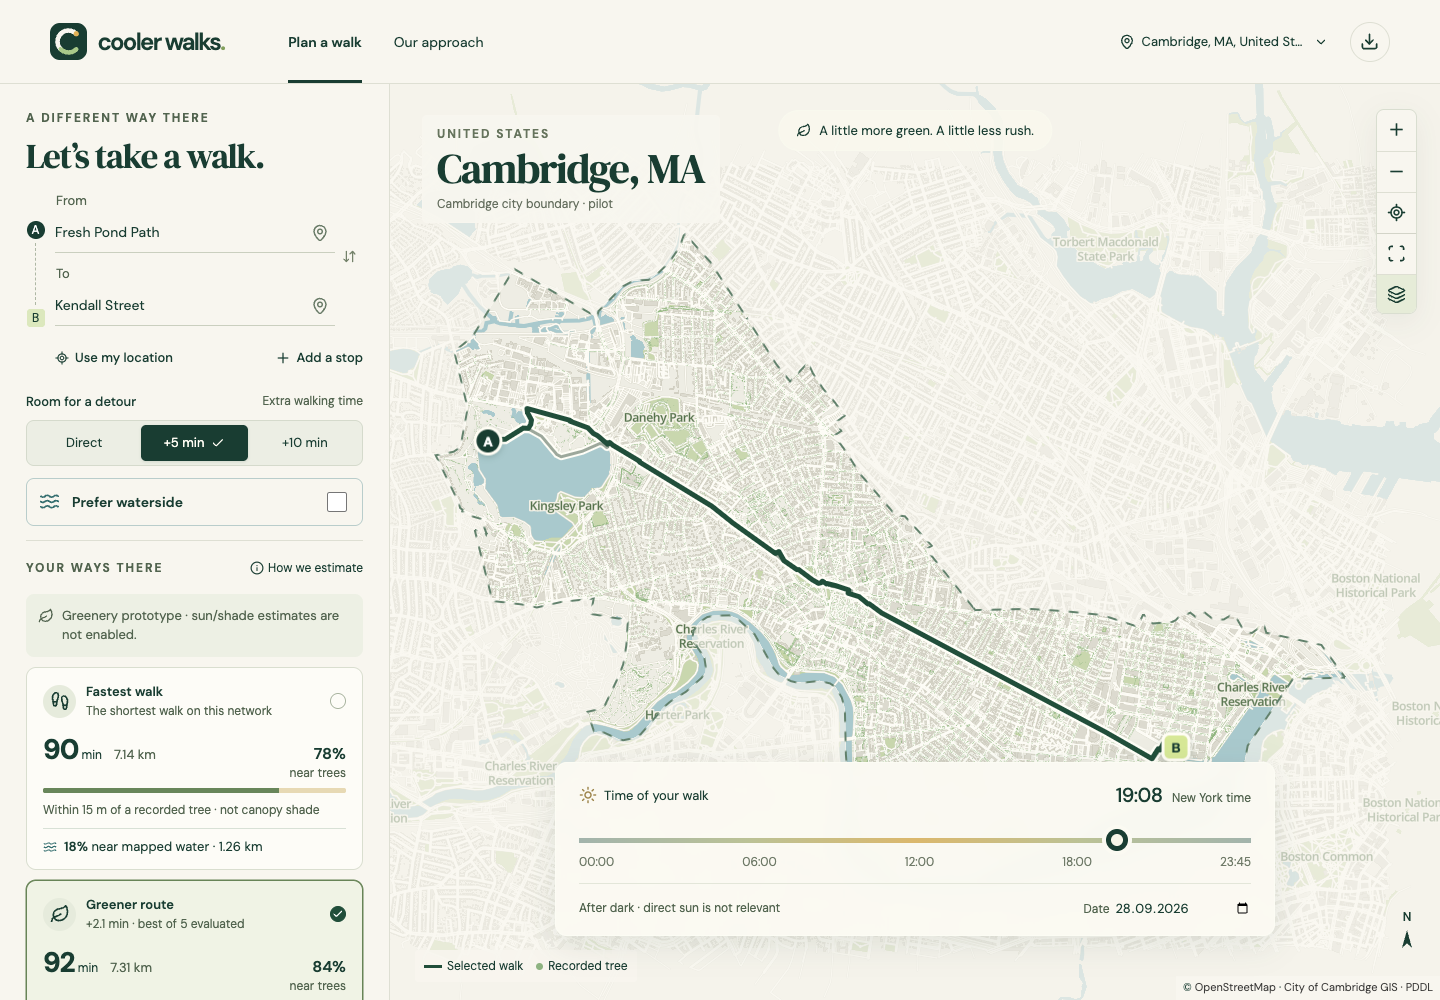
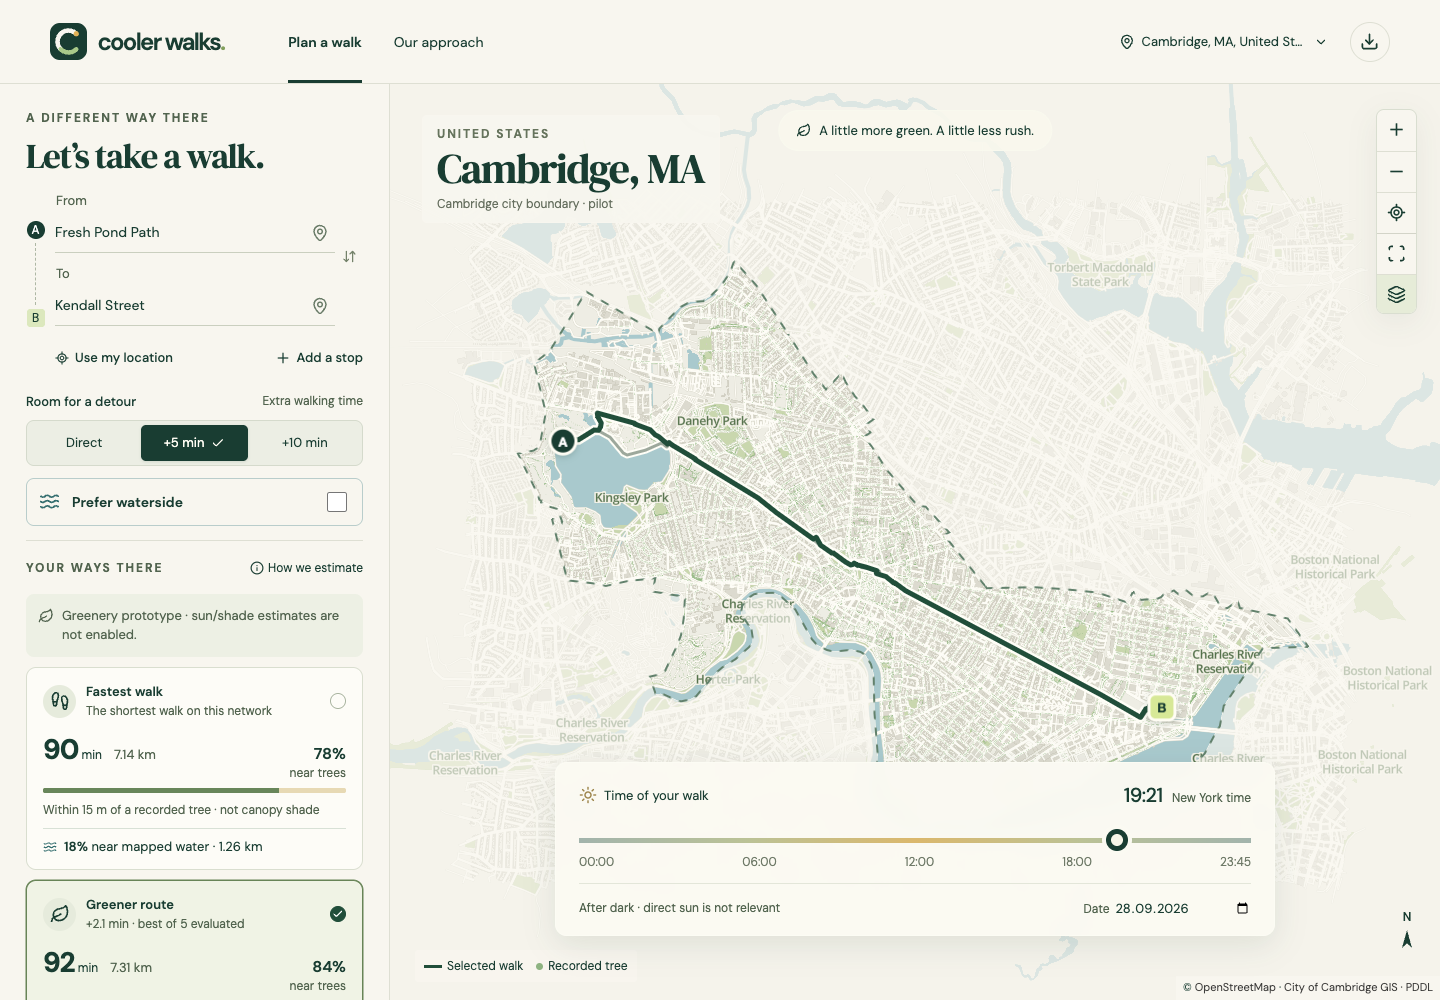
Verify offline Android flows and complete native build setup

diff --git a/src/components/Map.tsx b/src/components/Map.tsx
@@ -493,7 +493,12 @@ export function WalkingMap({
               onClick={() => {
                 if (!showCoverage) onCoverage();
                 map.current?.fitBounds(city.bounds, {
-                  padding: { top: 130, bottom: 100, left: 40, right: 85 },
+                  padding: {
+                    top: 130,
+                    bottom: matchMedia('(max-width:620px)').matches ? 100 : 280,
+                    left: 40,
+                    right: 85,
+                  },
                   duration: matchMedia('(prefers-reduced-motion: reduce)').matches ? 0 : 650,
                 });
               }}

diff --git a/docs/platform.md b/docs/platform.md
@@ -47,6 +47,8 @@ The local preview is the delivered runtime. No public production domain is deplo
 
 The enlarged graphs pass six new real journeys with endpoints outside the old coverage, plus full graph-edge checks against rectangles or Cambridge’s municipal polygon. Results are in `coverage-validation.json`; the separate source/model manifests retain all provenance. Unknown Munich structures have dedicated model tests. Candidate searches use a conservative distance lower bound to keep short trips responsive in larger graphs.
 
-The native project uses an Android debug build job on GitHub Actions in addition to existing web/model checks. It does not publish an app or use release-signing credentials. Exact local native verification is recorded in `native-validation.json` when completed.
+The native project uses an Android debug build job on GitHub Actions in addition to existing web/model checks. It explicitly sets up the Android SDK and does not publish an app or use release-signing credentials.
+
+**Android actually verified:** the debug APK compiled, installed and launched in an isolated Pixel 8 AVD running Android 16 (API 36.1, ARM64), with Android System WebView 134.0.6998.135. Eleven integration checks passed: native launch and local worker routes, no service worker, information/editing Back handling, native location denial with preserved inputs, maps/routes in all four cities with Wi-Fi/mobile data disabled, winter sun preference offline, root Back/minimize/resume, no horizontal overflow, and a cold offline relaunch remembering the city. No page errors were recorded. Source and test details are in [native-validation.json](native-validation.json) and [mobile.md](mobile.md). Actual emulator screenshots include [offline Munich](screenshots/android-offline-munich.png) and [offline Cambridge](screenshots/android-offline-cambridge.png). Screenshot review caught and corrected pale system icons on the light header. The debug APK is about 27 MB; it is available locally under `native-artifacts/` and as a private CI artifact after a successful native job. No physical-device or App Store/Play Store validation is implied.
 
 **Local iOS build limitation:** Xcode 26.3 rejected the simulator build because its required iOS 26.2 platform was unavailable. `xcodebuild -downloadPlatform iOS -buildVersion 26.2` reported that version unavailable. The currently offered 26.3.1 download is 8.39 GB; its very slow transfer was stopped. Swift dependencies resolved and the source project is prepared, but no successful iOS compile or native launch is claimed. Install/enable compatible platform support in Xcode → Settings → Components, then run `npm run native:sync` and `npm run native:ios`. Physical iPhone testing remains outstanding.

diff --git a/docs/progress.md b/docs/progress.md
@@ -18,7 +18,7 @@ Private maintained repository: https://github.com/gumbrich/cooler-walks. The del
 
 Zurich: 8.06 km² (1.81× the old pilot); Munich: 8.90 km² (4.44×); Cambridge: 18.46 km² (4.95×), using its municipal polygon; Basel: 10.25 km² (2.14×). All graph segments stay inside supported coverage, including narrow gaps and holes. Six new journeys and the existing reference trips validate real routes, alternatives and detour limits. Larger Munich surroundings also enable the tested winter sun comparison.
 
-A whole-coverage map action and quieter city-scale cartography make these limits visible. Unsupported surroundings are muted. Native Capacitor projects share the complete planner and bundle all city data for offline use, with native location permission, Android Back, app icons and safe areas. Setup and the exact remaining iOS platform blocker are in `mobile.md`; validation is recorded in `platform.md`.
+A whole-coverage map action and quieter city-scale cartography make these limits visible. Unsupported surroundings are muted. Native Capacitor projects share the complete planner and bundle all city data for offline use, with native location permission, Android Back, app icons and safe areas. The Android debug APK built and passed eleven emulator integration checks, including native permission denial, every city offline, winter sun and a cold offline restart. Actual emulator screenshots are included. Setup and the exact remaining iOS platform blocker are in `mobile.md`; validation is recorded in `platform.md`.
 
 ## Next useful milestone
 

diff --git a/README.md b/README.md
@@ -51,6 +51,8 @@ npm run native:open:ios      # open Xcode
 
 Detailed setup, signing boundaries, offline behaviour and the local iOS platform blocker are in [docs/mobile.md](docs/mobile.md). Actual platform test results are in [docs/platform.md](docs/platform.md). Signing credentials and generated native build outputs are ignored.
 
+Android compiled and passed eleven checks in an Android 16 emulator, including native location denial, Back/resume, all four cities offline and cold offline launch. The iOS project is prepared but requires this Mac's missing compatible Xcode platform before compile/launch can be verified. Neither platform has been tested on a physical phone or submitted to a store.
+
 ## Develop and verify
 
 ```sh
@@ -95,7 +97,7 @@ Real route checks for every pilot are in [city-route-validation.json](docs/city-
 
 ## Screenshots
 
-Actual browser captures are in [docs/screenshots](docs/screenshots). They document visual review, not physical-device or field validation.
+Actual browser and Android emulator captures are in [docs/screenshots](docs/screenshots), including [expanded Cambridge on desktop](docs/screenshots/desktop-expanded-cambridge.png) and [offline Munich in the native app](docs/screenshots/android-offline-munich.png). They document visual review, not physical-device or field validation.
 
 ![Desktop planner](docs/screenshots/desktop-planner.png)
 
